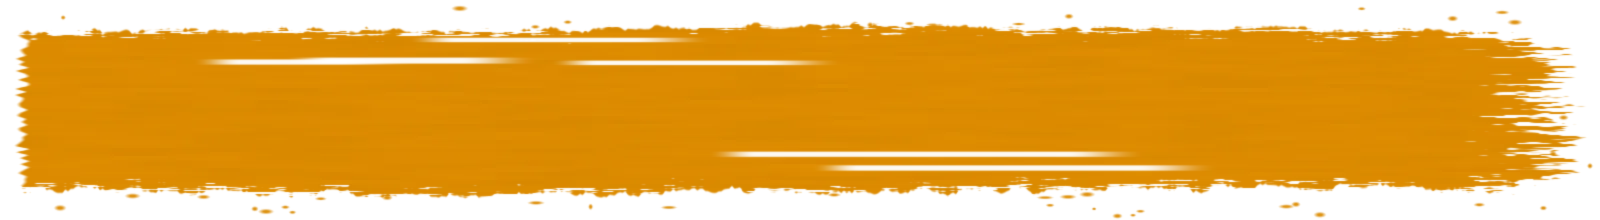
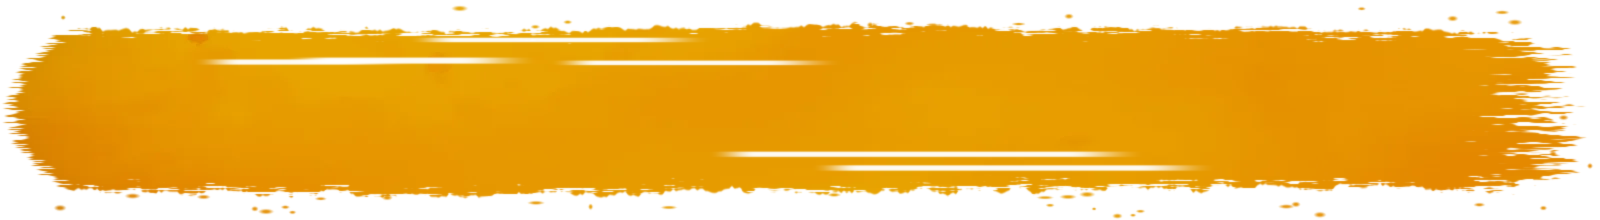
style(display): fuller brush highlight with watercolor texture and a brush-landing start
- The stroke reaches a little above, below, before and after the text (--highlight-bleed,
  --highlight-bleed-inline); the inline bleed is cancelled by negative margin, so the words
  don't move
- --texture-watercolor is soft-light blended into the stroke's orange
- Rounded, bristled start with pooled paint instead of a straight cut

diff --git a/src/components/ui/Display/Display.module.scss b/src/components/ui/Display/Display.module.scss
@@ -45,6 +45,9 @@
   // The stroke image carries its own orange and fades to transparent, so the
   // flat accent fill is dropped; stretching keeps the fade across each line.
   &[data-paint="true"] {
+    padding-block: var(--highlight-bleed);
+    padding-inline: calc(var(--space-2) + var(--highlight-bleed-inline));
+    margin-inline: calc(var(--highlight-bleed-inline) * -1);
     background-color: transparent;
     background-image: var(--texture-brush-stroke);
     background-size: 100% 100%;

diff --git a/src/styles/tokens.scss b/src/styles/tokens.scss
@@ -111,6 +111,8 @@
   --marker-size: 36px;
   --date-column: 120px;
   --wash-opacity: 0.35;
+  --highlight-bleed: 0.12em;
+  --highlight-bleed-inline: 0.25em;
   --logo-width-s: 120px;
   --logo-width-m: 160px;
   --logo-width-l: 220px;

diff --git a/DESIGN.md b/DESIGN.md
@@ -118,7 +118,7 @@ another token looks close.
 | `--color-guide` | `#B9C4CC` | The faint blue-grey construction lines (`GuideLines`). Decorative only. |
 | `--color-shadow` | ink at 25% | The one shadow in the system, for floating layers only: the sticky play bar and the open `Select` menu. |
 | `--texture-watercolor` | `url(/brand/watercolor-wash.webp)` | The watercolor wash for the callout band. Layer it over `--color-accent` so the band still reads if the image fails to load. |
-| `--texture-brush-stroke` | `url(/brand/brush-stroke.webp)` | The painted highlight behind the one highlighted phrase: a dry-brush stroke in flat `--color-accent`, with ragged bristle edges, a few dry streaks, paint flecks and a frayed end. Transparent outside the paint, so it sits directly on the paper with no accent fill underneath. |
+| `--texture-brush-stroke` | `url(/brand/brush-stroke.webp)` | The painted highlight behind the one highlighted phrase: a dry-brush stroke in `--color-accent` with the `--texture-watercolor` wash soft-light blended in (baked into the image), a rounded bristled start, ragged edges, a few dry streaks, paint flecks and a frayed end. Transparent outside the paint, so it sits directly on the paper with no accent fill underneath. |
 
 ### Pairings
 
@@ -241,6 +241,8 @@ them for every margin, padding and gap.
 | `--marker-size` | 36px | Diameter of the numbered accent circle in `FeatureList`. |
 | `--date-column` | 120px | Width of the mono date column in `UpdateRow`. |
 | `--wash-opacity` | 0.35 | Opacity of the watercolor edge on `CalloutBand`; keeps ink text above 4.5:1 on the accent. |
+| `--highlight-bleed` | 0.12em | How far the painted `Highlight` stroke reaches above and below its text. In `em`, so it scales with the heading. Inline padding, so line spacing is unchanged. |
+| `--highlight-bleed-inline` | 0.25em | How far the painted stroke reaches before and after its text. Added as padding and taken back as negative margin, so the words don't move. |
 | `--logo-width-s` | 120px | `Logo` width at size `s`. |
 | `--logo-width-m` | 160px | `Logo` width at size `m` (default). |
 | `--logo-width-l` | 220px | `Logo` width at size `l`. |
